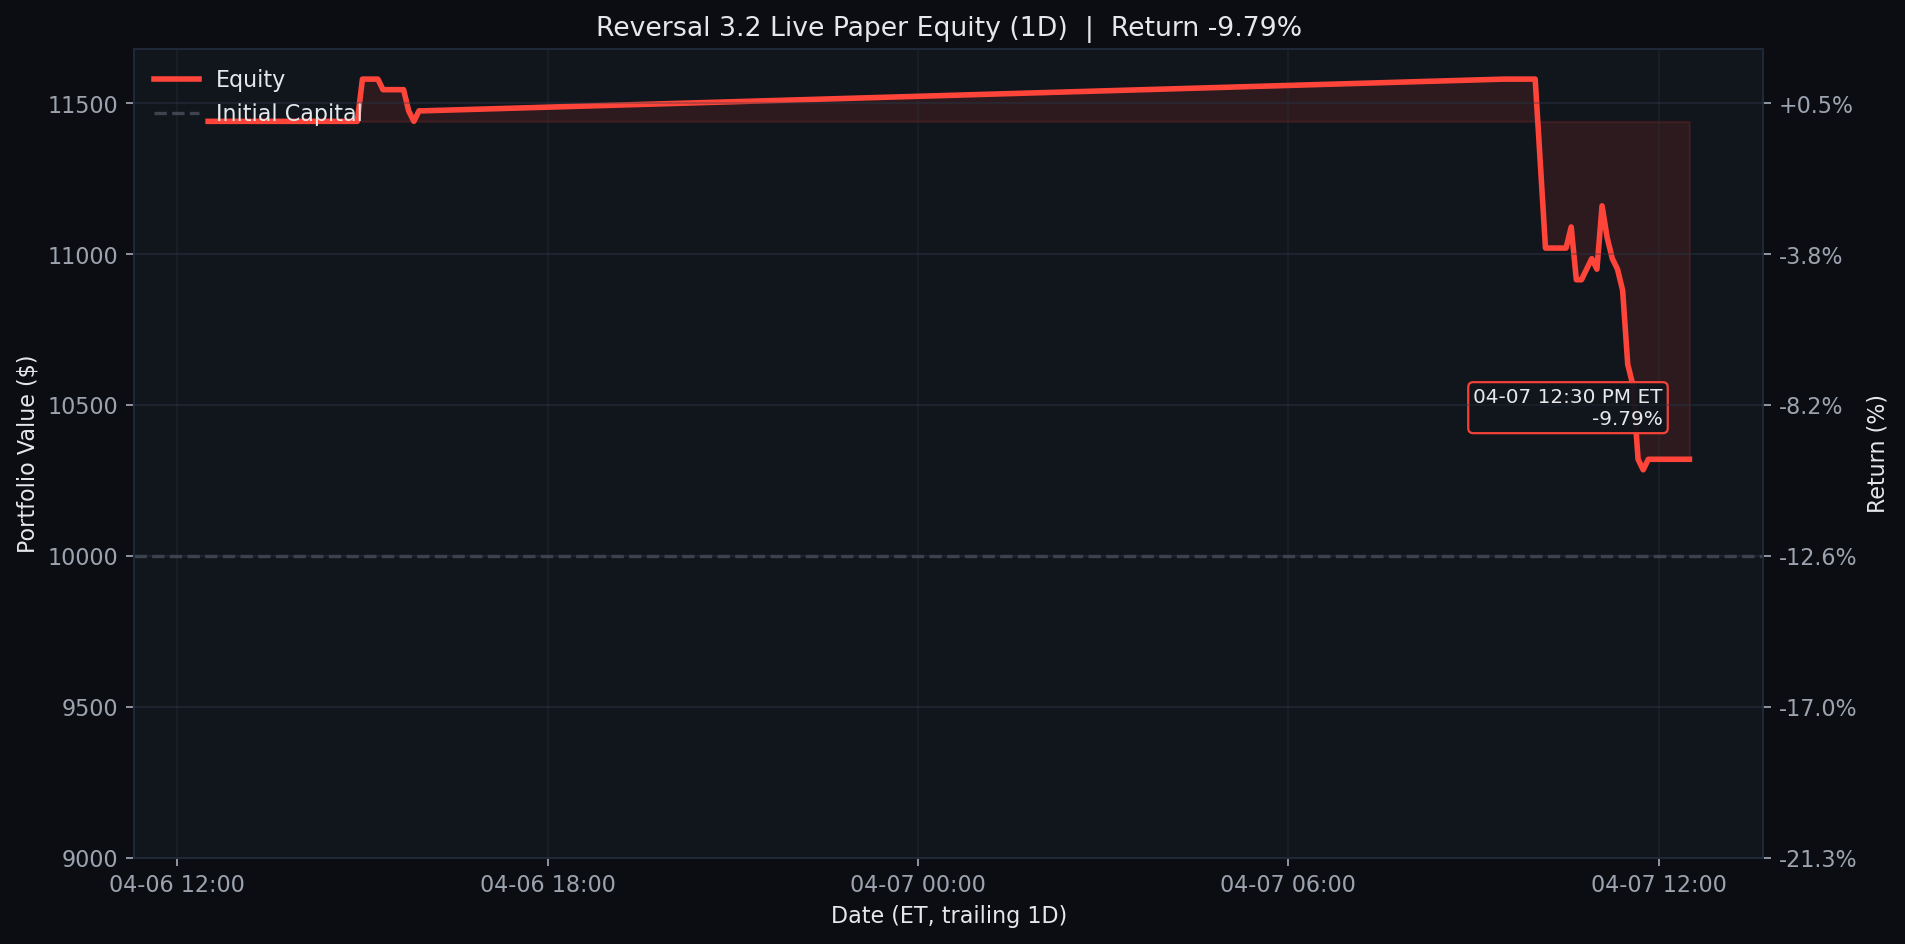
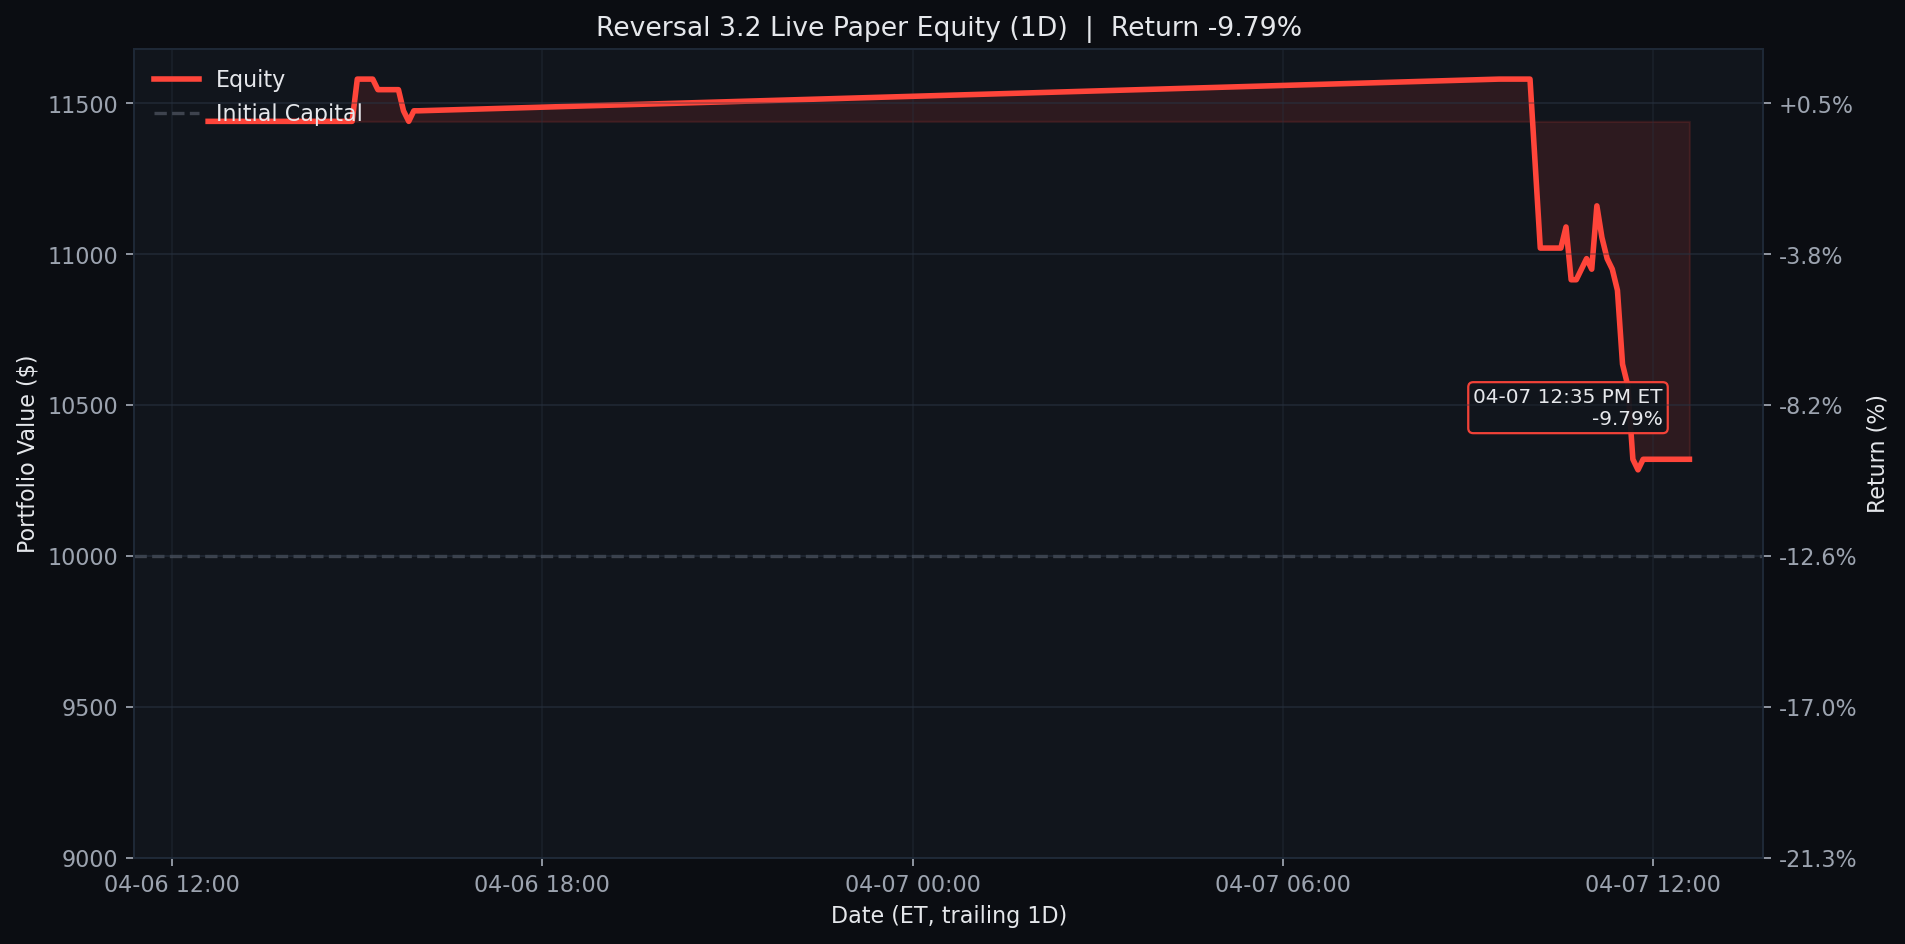
Update Reversal 3.2 live paper test 2026-04-07 12:35 ET

diff --git a/results/reversal_3_2_live/README.md b/results/reversal_3_2_live/README.md
@@ -1,6 +1,6 @@
 # Reversal 3.2 Live Paper Test
 
-Last updated (ET): `2026-04-07 12:30:00 EDT`
+Last updated (ET): `2026-04-07 12:35:03 EDT`
 Last processed slot: `manage_1230`
 
 ## Active Configuration
@@ -40,24 +40,25 @@ ticker    contract_symbol entry_trade_date_et exit_trade_date_et  entry_option_p
 
 ```text
 ticker  success_rate_%  matched_signals  current_drop_%  target_rebound_$  target_price  rolling_sigma_20d_%  call_candidate
-  MRVL           97.22               36            0.98              0.75        109.19                70.84            True
-  REGN           96.00               25            1.24              6.60        760.21                25.24            True
-  COST           93.33               30            0.70              4.99       1016.41                13.04            True
-  NVDA           92.31               26            1.24              1.54        176.98                33.70            True
-  GILD           92.31               13            1.35              1.33        139.56                20.18            True
-  CDNS           91.11               45            0.64              1.25        278.85                25.26            True
-  ABNB           90.32               31            1.35              1.20        126.30                36.80            True
-  ORLY           90.00               40            0.59              0.38         91.97                23.11            True
-  UPRO           90.00               30            1.38              0.98        100.32                53.86            True
-  PCAR           89.47               38            0.62              0.51        118.10                21.97            True
-   KDP           89.47               19            0.56              0.10         25.66                20.32            True
-  ASML           88.89               36            0.62              5.68       1301.57                47.16            True
+  MRVL           97.30               37            0.96              0.74        109.19                70.84            True
+  REGN           96.77               31            1.13              6.03        760.45                25.24            True
+  NVDA           92.59               27            1.18              1.47        177.01                33.70            True
+  COST           90.32               31            0.60              4.28       1016.72                13.04            True
+  PCAR           90.24               41            0.54              0.45        118.13                21.97            True
+  UPRO           90.00               30            1.38              0.97        100.32                53.86            True
+  ORLY           89.74               39            0.61              0.39         91.96                23.11            True
+   KDP           89.47               19            0.54              0.10         25.66                20.32            True
+  ABNB           89.29               28            1.46              1.30        126.25                36.80            True
+  ASML           88.89               36            0.66              6.03       1301.43                47.16            True
+  KLAC           87.18               39            0.62              6.66       1537.21                45.70            True
+  FAST           86.96               23            1.17              0.37         45.71                20.98            True
 ```
 
 ## Recent Events
 
 ```text
                     timestamp_et        slot   event_type                                                                                                                              detail
+2026-04-07T12:35:03.878614-04:00 manage_1230 slot_skipped                                                                                                     {"reason": "already_processed"}
 2026-04-07T12:30:00.912059-04:00 manage_1230 slot_skipped                                                                                                     {"reason": "already_processed"}
 2026-04-07T12:25:00.895869-04:00 manage_1230 slot_skipped                                                                                                     {"reason": "already_processed"}
 2026-04-07T12:10:05.880109-04:00 manage_1200 slot_skipped                                                                                                     {"reason": "already_processed"}
@@ -67,7 +68,6 @@ ticker  success_rate_%  matched_signals  current_drop_%  target_rebound_$  targe
 2026-04-07T11:50:05.887768-04:00 manage_1200         exit {"contract_symbol": "HON260515C00230000", "pnl": -1120.0, "reason": "stop_loss_hit_at_scan", "return_pct": -21.62, "ticker": "HON"}
 2026-04-07T11:40:05.887766-04:00 manage_1130 slot_skipped                                                                                                     {"reason": "already_processed"}
 2026-04-07T11:35:05.890463-04:00 manage_1130 slot_skipped                                                                                                     {"reason": "already_processed"}
-2026-04-07T11:30:02.894028-04:00 manage_1130 slot_skipped                                                                                                     {"reason": "already_processed"}
 ```
 
 ## Equity Curves
@@ -77,20 +77,20 @@ Each chart is generated from the same live equity series with no-lookahead marks
 <details>
 <summary><strong>1D</strong></summary>
 
-![Reversal 3.2 Live Equity 1D](../../assets/reversal_3_2_live_equity_1d.png?v=20260407123000)
+![Reversal 3.2 Live Equity 1D](../../assets/reversal_3_2_live_equity_1d.png?v=20260407123503)
 
 </details>
 
 <details open>
 <summary><strong>1W</strong></summary>
 
-![Reversal 3.2 Live Equity 1W](../../assets/reversal_3_2_live_equity.png?v=20260407123000)
+![Reversal 3.2 Live Equity 1W](../../assets/reversal_3_2_live_equity.png?v=20260407123503)
 
 </details>
 
 <details>
 <summary><strong>1M</strong></summary>
 
-![Reversal 3.2 Live Equity 1M](../../assets/reversal_3_2_live_equity_1m.png?v=20260407123000)
+![Reversal 3.2 Live Equity 1M](../../assets/reversal_3_2_live_equity_1m.png?v=20260407123503)
 
 </details>

diff --git a/README.md b/README.md
@@ -3,7 +3,7 @@
 <!-- reversal-3.2-live:start -->
 ## Reversal 3.2 Live Paper Test
 
-- Last updated (ET): `2026-04-07 12:30:00 EDT`
+- Last updated (ET): `2026-04-07 12:35:03 EDT`
 - Equity: `$10,320.00` | Realized: `$320.00` | Unrealized: `$0.00` | Open positions: `0`
 - Today closed trades: `1`
 - Current slot: `manage_1230`
@@ -17,21 +17,21 @@ _None_
 <details>
 <summary><strong>1D</strong></summary>
 
-![Reversal 3.2 Live Equity 1D](assets/reversal_3_2_live_equity_1d.png?v=20260407123000)
+![Reversal 3.2 Live Equity 1D](assets/reversal_3_2_live_equity_1d.png?v=20260407123503)
 
 </details>
 
 <details open>
 <summary><strong>1W</strong></summary>
 
-![Reversal 3.2 Live Equity 1W](assets/reversal_3_2_live_equity.png?v=20260407123000)
+![Reversal 3.2 Live Equity 1W](assets/reversal_3_2_live_equity.png?v=20260407123503)
 
 </details>
 
 <details>
 <summary><strong>1M</strong></summary>
 
-![Reversal 3.2 Live Equity 1M](assets/reversal_3_2_live_equity_1m.png?v=20260407123000)
+![Reversal 3.2 Live Equity 1M](assets/reversal_3_2_live_equity_1m.png?v=20260407123503)
 
 </details>
 
